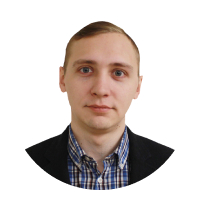
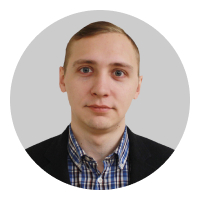
modal adaptive edit

diff --git a/src/components/Base/Modals/CallbackModal.vue b/src/components/Base/Modals/CallbackModal.vue
@@ -5,38 +5,20 @@
     @close="close"
   >
     <div class="image-modal__container">
-      <div class="image-modal__body">
-        <div class="image-modal__inner" :style="{ color: $widjet().global.textPrimary }">
+      <div class="image-modal__body" :style="{ color: $widjet().global.textPrimary }">
+        <div class="image-modal__inner">
           <p class="image-modal__headline">
-            {{
-              modalData.title !== ""
-                ? modalData.title
-                : "Рассчитать стоимость проекта"
-            }}
+            {{ modalData.title !== "" ? modalData.title : "Рассчитать стоимость проекта"}}
           </p>
           <CallbackForm class="image-modal__form" :btnText="modalData.button.text"/>
           <p class="image-modal__subtitle">
-            {{
-              modalData.subTitle !== ""
-                ? modalData.subTitle
-                : "и получите консультацию от наших специалистов"
-            }}
+            {{ modalData.subTitle !== "" ? modalData.subTitle : "и получите консультацию от наших специалистов"}}
           </p>
-          <a 
-            href="#" class="image-modal__political" 
-            :style="{ color: $widjet().global.dopPrimary }"
-            @click.prevent="openPoliticalModal"
-          >
-            Пользовательское соглашение
-          </a>
+          <a href="#" class="image-modal__political" :style="{ color: $widjet().global.dopPrimary }" @click.prevent="openPoliticalModal">Пользовательское соглашение</a>
         </div>
         <div class="image-modal__image">
-          <img
-            :src="
-              modalData.image !== '' ? modalData.image : '/images/modals/1.jpg'
-            "
-            alt=""
-          />
+          <p class="image-modal__headline mobile">{{modalData.title !== "" ? modalData.title : "Рассчитать стоимость проекта"}}</p>
+          <img :src="modalData.image !== '' ? modalData.image : '/images/modals/1.jpg'" alt=""/>
         </div>
       </div>
     </div>
@@ -86,6 +68,9 @@ export default {
     align-items: center;
     justify-content: space-between;
     border-radius: 12px;
+    @media screen and (max-width: 768px) {
+        flex-direction: column-reverse;
+    }
   }
 
   &__inner {
@@ -95,6 +80,15 @@ export default {
   &__headline {
     font-weight: bold;
     font-size: 24px;
+    @media screen and (max-width: 768px) {
+      display: none;
+    }
+    &.mobile {
+      display: block;
+      @media screen and (min-width: 768px) {
+        display: none;
+      } 
+    }
   }
 
   &__subtitle {
@@ -121,16 +115,16 @@ export default {
   }
 
   &__image {
-    width: 180px;
-    border-radius: 50%;
-    @media screen and (min-width: 768px) {
-      width: 190px;
-      height: 190px;
-    }
-
+    display: flex;
+    flex-direction: column;
+    justify-content: center;
+    align-items: center;
     img {
       width: 100%;
       height: 100%;
+      max-width: 180px;
+      max-height: 180px;
+      border-radius: 50%;
       border-radius: inherit;
       object-fit: cover;
       object-position: center left;

diff --git a/src/components/Panel.vue b/src/components/Panel.vue
@@ -54,7 +54,6 @@
     </div>
 
     <div class="widjet__col" ref="mangerElement">
-      <!-- <div ref="mangerElement"> -->
       <PanelCol
         hr="left"
         size="l"
@@ -69,8 +68,12 @@
           class="widjet__content"
         />
       </PanelCol>
-      <!-- </div> -->
+
+      <PanelCol size="s" hr="left" :visibility="entryData.onlineConsultant[1].visibility" :windowWidth="widthDevice">
+        <WidjetLink />
+      </PanelCol>
     </div>
+    
 
     <WindowContact
       :isVisible="isWindowVisible"
@@ -191,6 +194,12 @@ onMounted(() => {
 
   if (isComeback === null || isComeback !== "false") {
     document.addEventListener("mouseleave", comeback);
+  }
+
+  if (isComeback === null || isComeback !== "false") {
+    setTimeout(() => {
+    openModal("callBack");
+    }, 120000)
   }
 
   window.addEventListener("resize", handleResize);

diff --git a/src/components/WidjetLink.vue b/src/components/WidjetLink.vue
@@ -1,7 +1,7 @@
 <template>
   <div class="widjet__link">
-    <a class="" href="#">
-      <p>Krible</p>
+    <a class="" href="https://kreeble.ru">
+      <p>Kreeble</p>
     </a>
   </div>
 </template>
@@ -23,7 +23,7 @@
       p {
         transform: rotate(-90deg);
         color: #fff;
-        font-size: 14px;
+        font-size: 12px !important;
       }
     }
   }

diff --git a/src/components/Base/Form/Callback.vue b/src/components/Base/Form/Callback.vue
@@ -12,6 +12,7 @@
         :rules="field.rules"
         :name="field.name"
         type="text"
+        class="field-row__field"
     />
       <button
         type="submit"
@@ -56,6 +57,9 @@
 .field-row {
   display: flex;
   align-items: center;
+  &__field {
+    min-width: 273px;
+  }
   button {
     height: 40px;
     border: none;

diff --git a/src/components/Base/Modals/RootModal.vue b/src/components/Base/Modals/RootModal.vue
@@ -105,7 +105,7 @@
       position: relative;
       width: 750px;
       min-width: 300px;
-      max-height: 90%;
+      max-width: 90%;
       // height: 65%;
       min-height: 300px;
       box-shadow: 0 4px 6px -1px rgba(0, 0, 0, 0.1), 0 2px 4px -1px rgba(0, 0, 0, 0.06);
